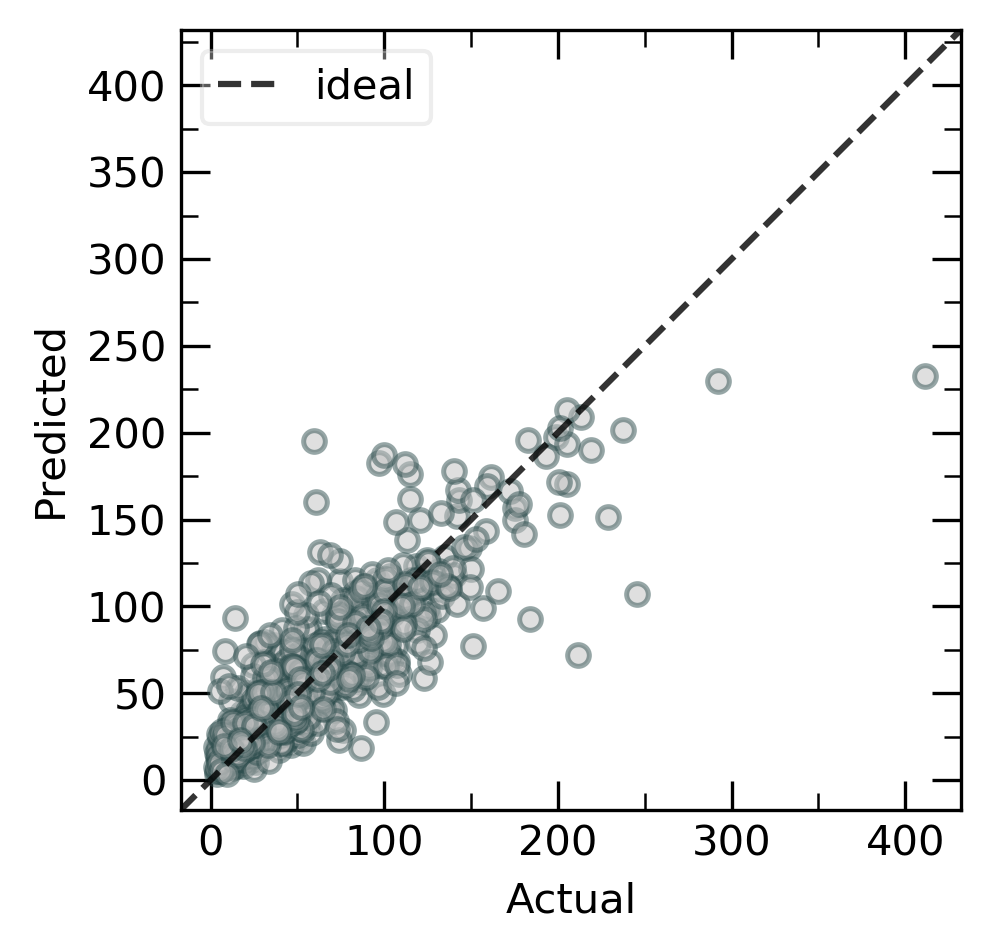
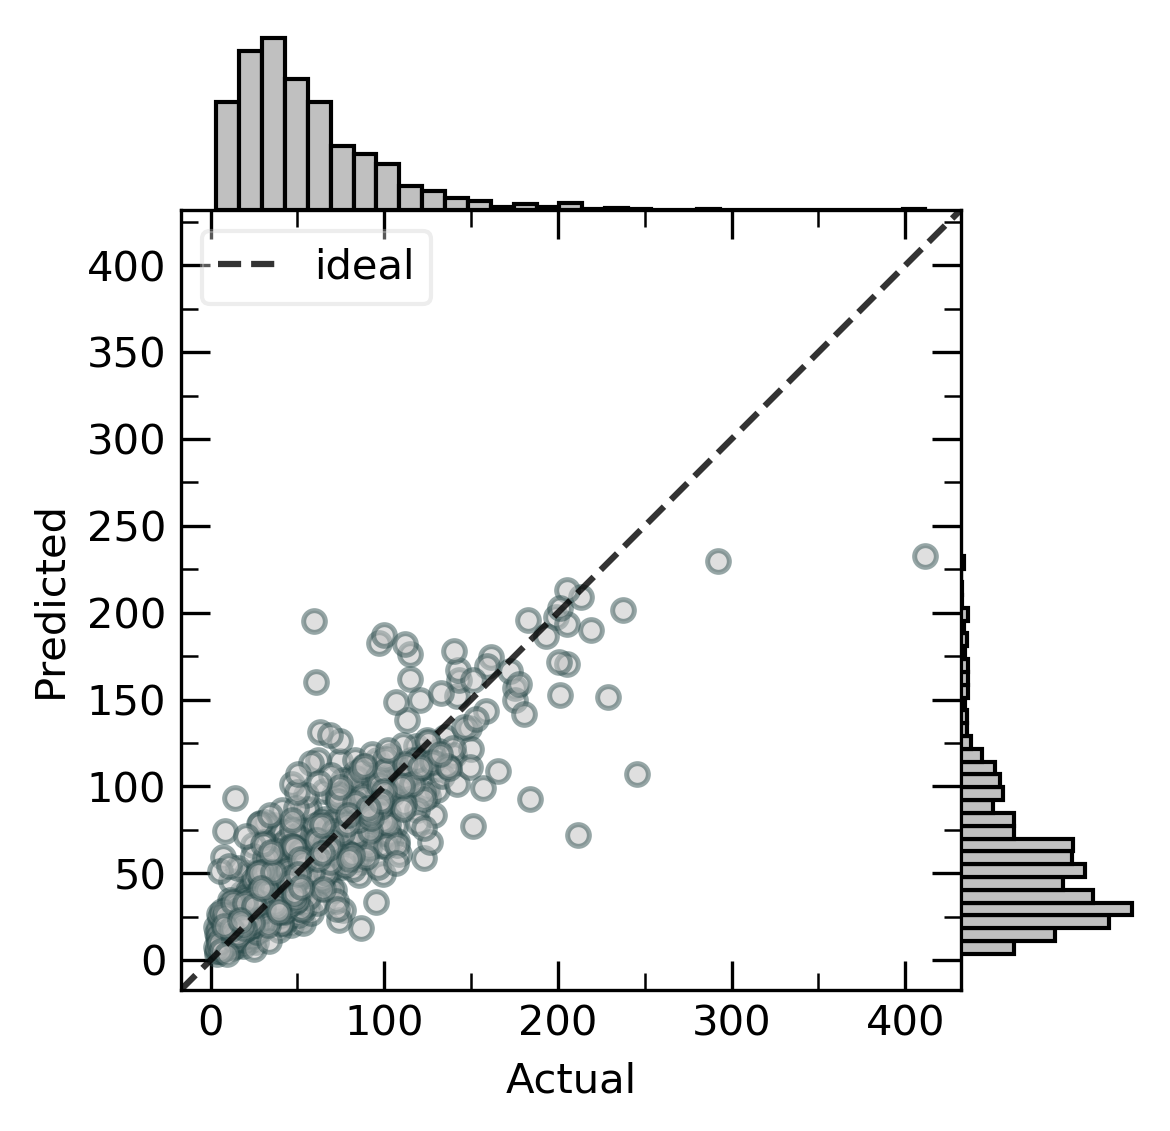
fixed so that hist and nonhist plots show.

diff --git a/figures.py b/figures.py
@@ -338,7 +338,7 @@ def element_prevalence(formulae, name='example', save_dir=None,
         plt.close()
 
     if not ptable_fig:
-        log_scale = True
+        log_scale = False
         fig, ax = plt.subplots(figsize=(15, 10))
         non_zero = elem_tracker[elem_tracker != 0].sort_values(ascending=False)
         if log_scale:
@@ -381,6 +381,7 @@ if __name__ == '__main__':
              save_dir='example_figures')
 
     act_pred(y_act, y_pred,
+             name='example_no_hist',
              save_dir='example_figures',
              x_hist=False, y_hist=False)
 
